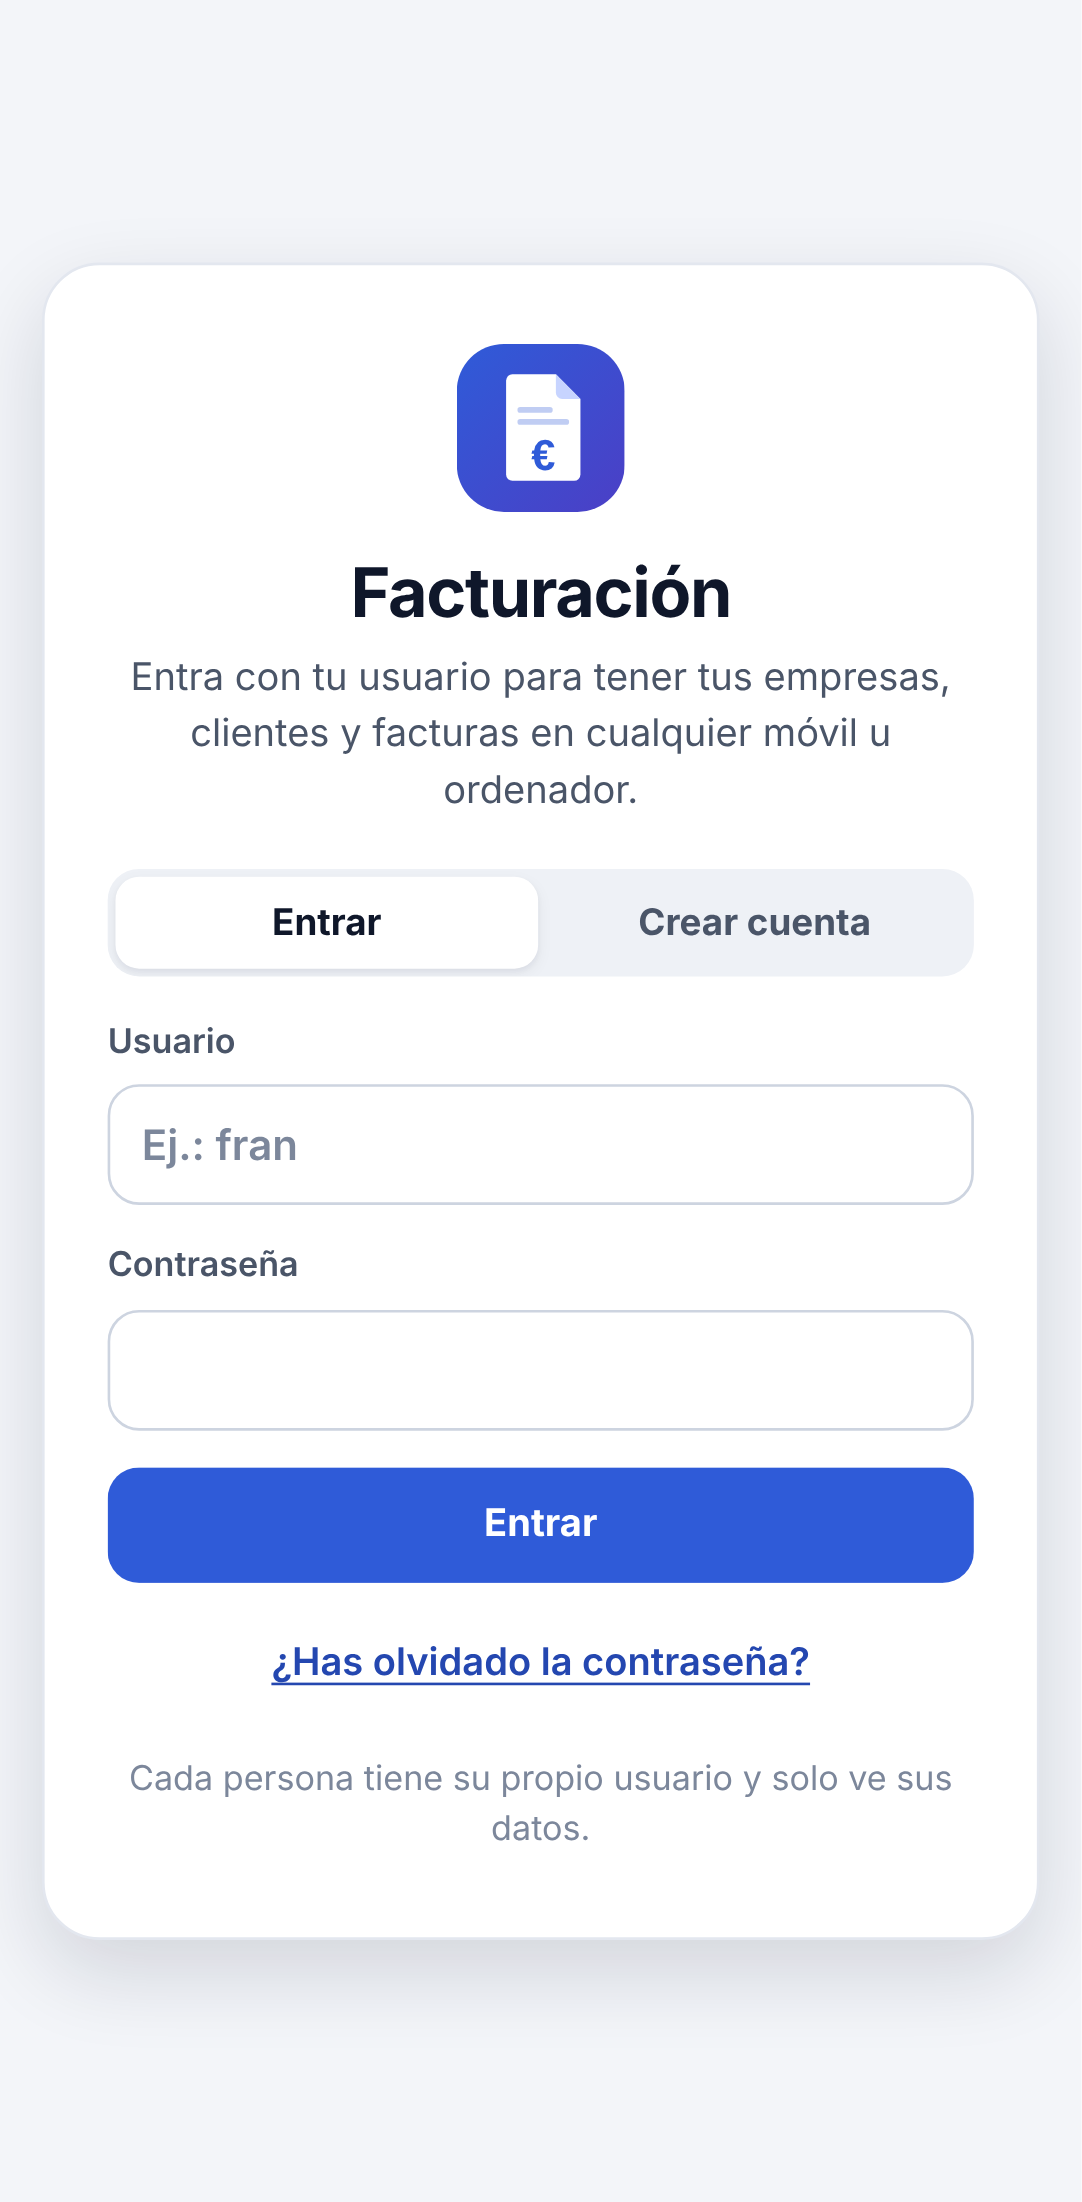
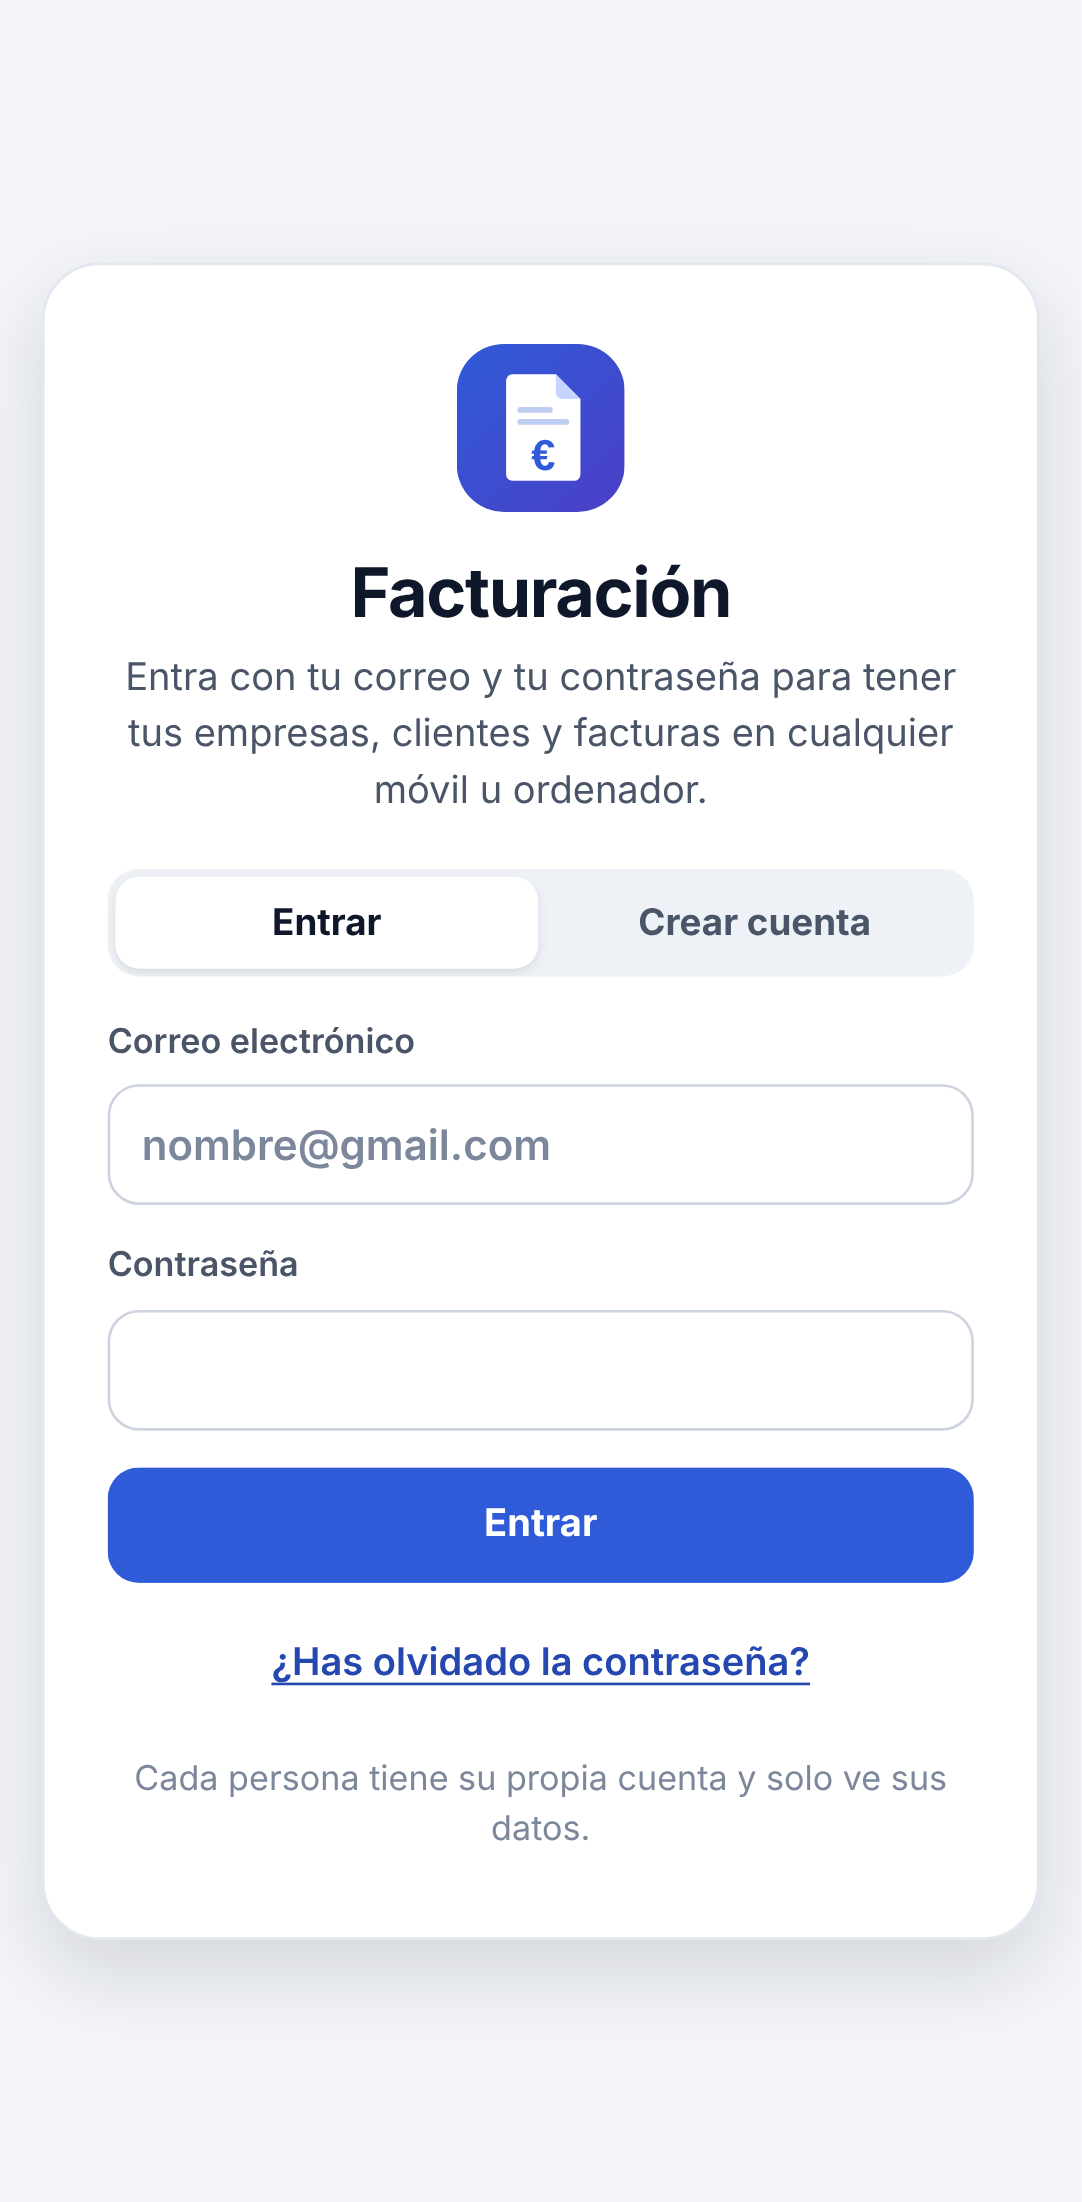
Acceso con correo y contraseña
- La pantalla de acceso pide el correo (teclado de correo en el móvil);
  se siguen admitiendo los nombres de usuario creados antes
- «¿Has olvidado la contraseña?» con el correo envía el enlace para cambiarla
- Mensajes de error y documentación con «correo»
- Prueba: correo no válido y envío del enlace de recuperación (emulador)
- Versión 3.4 (service worker v7)

Claude-Session: https://claude.ai/code/session_019FwpA5BjjwRJqGAhj26BwB

Changed region(s): [[0.122, 0.2779, 0.8845, 0.3706], [0.122, 0.8029, 0.8845, 0.8338], [0.122, 0.4632, 0.5185, 0.525]]

diff --git a/index.html b/index.html
@@ -1125,14 +1125,14 @@ body.con-acceso{overflow:hidden}
     <h1>Facturación</h1>
     <div id="acceso-cargando"><div class="ia-cargando" style="justify-content:center"><span class="ia-giro"></span><span id="acceso-cargando-texto">Abriendo…</span></div></div>
     <div id="acceso-formulario" hidden>
-      <p class="suave" style="font-size:14.5px;margin:6px 0 18px">Entra con tu usuario para tener tus empresas, clientes y facturas en cualquier móvil u ordenador.</p>
+      <p class="suave" style="font-size:14.5px;margin:6px 0 18px">Entra con tu correo y tu contraseña para tener tus empresas, clientes y facturas en cualquier móvil u ordenador.</p>
       <div class="seg" id="acceso-modo" style="width:100%;margin-bottom:16px">
         <button type="button" data-modo="entrar" class="activo" style="flex:1">Entrar</button>
         <button type="button" data-modo="crear" style="flex:1">Crear cuenta</button>
       </div>
       <form id="form-acceso" novalidate>
-        <label>Usuario <input id="ac-usuario" autocomplete="username" autocapitalize="none" autocorrect="off" spellcheck="false" placeholder="Ej.: fran"></label>
-        <p class="tenue" id="ac-ayuda-usuario" style="font-size:13px;margin:-6px 0 12px" hidden>Un nombre (sin espacios) o tu correo. Con el correo podrás recuperar la contraseña si la olvidas.</p>
+        <label>Correo electrónico <input id="ac-usuario" inputmode="email" autocomplete="username" autocapitalize="none" autocorrect="off" spellcheck="false" placeholder="nombre@gmail.com"></label>
+        <p class="tenue" id="ac-ayuda-usuario" style="font-size:13px;margin:-6px 0 12px" hidden>Usa un correo tuyo de verdad: si olvidas la contraseña, te llegará ahí un enlace para cambiarla.</p>
         <label>Contraseña <input id="ac-clave" type="password" autocomplete="current-password"></label>
         <label id="lbl-ac-clave2" hidden>Repite la contraseña <input id="ac-clave2" type="password" autocomplete="new-password"></label>
         <p class="ia-error" id="ac-error" hidden></p>
@@ -1140,7 +1140,7 @@ body.con-acceso{overflow:hidden}
         <button type="submit" class="btn primario" id="ac-boton" style="width:100%">Entrar</button>
         <button type="button" class="btn-enlace" id="ac-olvido">¿Has olvidado la contraseña?</button>
       </form>
-      <p class="tenue" style="font-size:13px;margin:16px 0 0">Cada persona tiene su propio usuario y solo ve sus datos.</p>
+      <p class="tenue" style="font-size:13px;margin:16px 0 0">Cada persona tiene su propia cuenta y solo ve sus datos.</p>
     </div>
   </div>
 </div>
@@ -1167,7 +1167,7 @@ body.con-acceso{overflow:hidden}
 (function () {
 'use strict';
 
-const VERSION_APP = '3.3';
+const VERSION_APP = '3.4';
 
 /* =========================================================
    Utilidades
@@ -3531,10 +3531,10 @@ id('acceso-modo').addEventListener('click', (ev) => {
 function mensajeErrorCuenta(codigo) {
   switch (codigo) {
     case 'auth/invalid-credential': case 'auth/invalid-login-credentials': case 'auth/wrong-password': case 'auth/user-not-found':
-      return 'Usuario o contraseña incorrectos.';
-    case 'auth/email-already-in-use': return 'Ese usuario ya existe. Elige otro, o entra con él.';
+      return 'Correo o contraseña incorrectos.';
+    case 'auth/email-already-in-use': return 'Ya hay una cuenta con ese correo. Pulsa «Entrar» (o «¿Has olvidado la contraseña?»).';
     case 'auth/weak-password': return 'La contraseña es demasiado corta (mínimo 6 caracteres).';
-    case 'auth/invalid-email': return 'Ese usuario no es válido.';
+    case 'auth/invalid-email': return 'Ese correo no es válido.';
     case 'auth/too-many-requests': return 'Demasiados intentos. Espera unos minutos y prueba otra vez.';
     case 'auth/network-request-failed': return 'No hay conexión a internet. Para entrar la primera vez hace falta internet.';
     case 'auth/requires-recent-login': return 'Por seguridad, cierra la sesión, vuelve a entrar y repite el cambio.';
@@ -3548,8 +3548,9 @@ id('form-acceso').addEventListener('submit', async (ev) => {
   const error = (t) => { id('ac-error').textContent = t; id('ac-error').hidden = false; };
   const usuario = limpiarUsuario(id('ac-usuario').value);
   const clave = id('ac-clave').value;
-  if (!usuario) return error('Escribe tu usuario.');
-  if (!usuario.includes('@') && !/^[a-z0-9._-]{3,30}$/.test(usuario)) return error('El usuario debe tener entre 3 y 30 letras o números, sin espacios.');
+  if (!usuario) return error('Escribe tu correo.');
+  // Además del correo, se admite un nombre de usuario sin espacios (cuentas creadas así antes).
+  if (usuario.includes('@') ? !/^[^@\s]+@[^@\s]+\.[^@\s]+$/.test(usuario) : !/^[a-z0-9._-]{3,30}$/.test(usuario)) return error('Escribe un correo válido (por ejemplo, nombre@gmail.com).');
   if (clave.length < 6) return error('La contraseña debe tener al menos 6 caracteres.');
   if (modoAcceso === 'crear' && clave !== id('ac-clave2').value) return error('Las dos contraseñas no coinciden.');
   id('ac-error').hidden = true;
@@ -3574,7 +3575,7 @@ id('ac-olvido').addEventListener('click', async () => {
   if (!usuario.includes('@')) {
     info(usuario
       ? 'Tu usuario no es un correo, así que no se puede enviar un enlace. Pide a quien gestiona la app que te ponga una contraseña nueva (docs/CUENTAS.md).'
-      : 'Si tu usuario es tu correo, escríbelo arriba y vuelve a pulsar aquí: te llegará un enlace para poner una contraseña nueva.');
+      : 'Escribe arriba tu correo y vuelve a pulsar aquí: te llegará un enlace para poner una contraseña nueva.');
     return;
   }
   try {

diff --git a/sw.js b/sw.js
@@ -5,7 +5,7 @@
  * - El resto de archivos se sirven de la copia guardada y se actualizan en segundo plano.
  * Al publicar cambios en los archivos, sube VERSION para limpiar la caché antigua.
  */
-const VERSION = 'facturacion-v6';
+const VERSION = 'facturacion-v7';
 const ARCHIVOS = [
   './',
   './index.html',

diff --git a/docs/CUENTAS.md b/docs/CUENTAS.md
@@ -1,6 +1,6 @@
-# Cuentas: usuario y contraseña por persona
+# Cuentas: correo y contraseña por persona
 
-Con las cuentas activadas, cada persona (Fran, tu madre…) entra con **su usuario y su contraseña** y tiene
+Con las cuentas activadas, cada persona (Fran, tu madre…) entra con **su correo y su contraseña** y tiene
 **todas sus empresas, clientes y facturas** en cualquier móvil u ordenador. Si cambia algo en el móvil, aparece solo
 en el ordenador. Sin internet se puede seguir trabajando: los cambios se suben al volver la conexión.
 
@@ -40,7 +40,7 @@ Mientras no se haga lo de abajo, la app sigue **sin cuentas**, como hasta ahora 
 
    Estos datos **no son secretos** (van dentro de cualquier app web de Firebase) y se pueden subir al repositorio
    público. Lo que protege la información son las reglas del paso 4 y las contraseñas.
-7. Al publicarlo, la app pide usuario y contraseña. Cada persona pulsa **Crear cuenta** la primera vez.
+7. Al publicarlo, la app pide correo y contraseña. Cada persona pulsa **Crear cuenta** la primera vez.
    - Si en ese móvil ya había facturas de antes, la app pregunta si se pasan a la cuenta.
 8. **Recomendado:** cuando ya estén creadas las cuentas de todos, cierra la puerta a cuentas nuevas:
    - en `config-nube.js`, `permitirRegistro: false` (quita el botón «Crear cuenta»);
@@ -48,17 +48,18 @@ Mientras no se haga lo de abajo, la app sigue **sin cuentas**, como hasta ahora 
      (registro)**. Esto es lo que lo impide de verdad. Las cuentas nuevas se crean entonces en
      **Authentication → Usuarios → Agregar usuario**, con el correo `nombre@usuarios.facturacion.app`.
 
-## El usuario
+## El correo
 
-- Puede ser **un nombre** (`fran`, `mama`…): letras y números, sin espacios. Por dentro se convierte en
-  `fran@usuarios.facturacion.app`; ese correo no existe y no se envía nada.
-- O **un correo de verdad**. Así, si se olvida la contraseña, el botón **«¿Has olvidado la contraseña?»** manda un
-  enlace para poner otra.
+- Se entra con **un correo de verdad** y una contraseña (mínimo 6 caracteres). Si se olvida la contraseña, el botón
+  **«¿Has olvidado la contraseña?»** manda a ese correo un enlace para poner otra.
+- También se admite **un nombre** sin espacios (`fran`, `mama`…). Por dentro se convierte en
+  `fran@usuarios.facturacion.app`, un correo que no existe, así que con un nombre no se puede recuperar la
+  contraseña por correo.
 
 ## Si alguien olvida la contraseña
 
-- **Si su usuario es un correo:** pantalla de acceso → **¿Has olvidado la contraseña?**
-- **Si su usuario es un nombre:** quien gestiona el proyecto de Firebase le pone una nueva:
+- **Si entra con su correo:** pantalla de acceso → escribe el correo → **¿Has olvidado la contraseña?**
+- **Si entra con un nombre:** quien gestiona el proyecto de Firebase le pone una nueva:
   1. Abre **https://shell.cloud.google.com** con la cuenta de Google dueña del proyecto.
   2. Sube [`herramientas/cambiar-clave.py`](../herramientas/cambiar-clave.py) (menú ⋮ → Subir) y ejecuta:
 

diff --git a/docs/requisitos-audios.md b/docs/requisitos-audios.md
@@ -52,7 +52,7 @@ Las partes dudosas van marcadas con `[?]`, con la interpretación elegida al lad
 | 18 | **«Invéntate los datos donde sale, así quería la plantilla»** | La plantilla clásica es la buena. Botón **«Ver un ejemplo»** en la bienvenida: carga una empresa, clientes y facturas **inventados** (DELTA ESTUDIO DE ARQUITECTURA S.L., A 14/26, A 15/26, CP 3/26) y avisa de que son de ejemplo. «Borrar el ejemplo» solo quita esos datos. Las capturas y el PDF de `docs/` están hechos con esos datos. La vista previa de la plantilla también usa datos inventados. |
 | 19 | **Que también la use su madre** | La app no es solo de Fran: cualquiera la abre con el mismo enlace, la instala y da de alta su empresa. Cada móvil guarda sus datos aparte. Si se quiere dejar preparada, se le hace su propio JSON de configuración privado. |
 | 20 | **«Una IA a la que le pases un PDF y te ponga los datos del cliente»** | Botón **«Rellenar con IA desde un PDF o una foto»** en el editor de facturas y en la ficha de cliente. Usa Claude (Opus 5.5, SDK oficial) con salida JSON con esquema y con nuestras empresas excluidas. Los datos se **revisan** antes de usarlos. Si el CIF ya existe, se elige ese cliente. La clave se pone en Ajustes (o la primera vez) y no va en las copias. |
-| 21 | **«Que la app tenga un usuario y contraseña por persona y que, una vez dentro, tengan todos sus proyectos»** | **Cuentas** con Firebase (acceso con contraseña + base de datos Firestore). Al abrir, la app pide **usuario y contraseña** (o «Crear cuenta»). Cada persona ve **solo sus** empresas, clientes y facturas, en **cualquier móvil u ordenador** y en tiempo real. Sin internet sigue funcionando y sube los cambios después. Si el móvil ya tenía facturas, pregunta si se pasan a la cuenta. **Ajustes → Mi cuenta**: cambiar la contraseña y cerrar la sesión. Se activa con un proyecto de Firebase: pasos en [`CUENTAS.md`](CUENTAS.md). |
+| 21 | **«Que la app tenga un usuario y contraseña por persona y que, una vez dentro, tengan todos sus proyectos»** | **Cuentas** con Firebase (acceso con contraseña + base de datos Firestore). Al abrir, la app pide **correo y contraseña** (o «Crear cuenta»); si se olvida la contraseña, llega un enlace al correo. Cada persona ve **solo sus** empresas, clientes y facturas, en **cualquier móvil u ordenador** y en tiempo real. Sin internet sigue funcionando y sube los cambios después. Si el móvil ya tenía facturas, pregunta si se pasan a la cuenta. **Ajustes → Mi cuenta**: cambiar la contraseña y cerrar la sesión. Se activa con un proyecto de Firebase: pasos en [`CUENTAS.md`](CUENTAS.md). |
 | 17 | **Logos** de las dos empresas | Se suben en la ficha de cada empresa. El logo Φ venía dentro de la factura de ejemplo. Los datos reales **no** se guardan en el repositorio (es público): van en un archivo de configuración privado. |
 
 ## Interpretaciones tomadas

diff --git a/docs/COMO-SE-HIZO.md b/docs/COMO-SE-HIZO.md
@@ -277,9 +277,13 @@ Petición: «que la app tenga un usuario y contraseña por persona y que, una ve
 - **Sin romper lo anterior:** con `window.CONFIG_NUBE = null` (en `config-nube.js`) la app funciona igual que antes.
   Activarlo es solo pegar la configuración del proyecto de Firebase (`docs/CUENTAS.md`). Esa configuración **no es
   secreta**; la protección está en `firestore.rules` (cada `uid` solo lee y escribe `usuarios/{uid}/…`).
-- **Usuario sin correo:** `fran` → `fran@usuarios.facturacion.app` por dentro. También se puede usar un correo real,
-  para poder recuperar la contraseña. Para los nombres, `herramientas/cambiar-clave.py` (en Cloud Shell) pone una
-  nueva. Los errores de Firebase se traducen a frases claras.
+- **Se entra con correo y contraseña** (lo pidió así el usuario). El correo permite recuperar la contraseña con
+  `sendPasswordResetEmail` (en español: `auth.languageCode = 'es'`). Se sigue admitiendo un nombre sin correo
+  (`fran` → `fran@usuarios.facturacion.app`); para esos, `herramientas/cambiar-clave.py` (en Cloud Shell) pone una
+  contraseña nueva. Los errores de Firebase se traducen a frases claras.
+- **Lección:** las cuentas quedan **apagadas** hasta tener el proyecto de Firebase (solo lo puede crear el usuario,
+  con su cuenta de Google). Hay que decirlo muy claro y pedir la configuración en el mismo mensaje: el usuario
+  creyó que no estaban hechas porque la app seguía sin pedir contraseña.
 - **Cómo se guardan los datos:**
   - un documento por empresa, cliente y factura, con el mismo formato que la copia de seguridad, y los ajustes en
     `usuarios/{uid}`;

diff --git a/README.md b/README.md
@@ -7,7 +7,7 @@ está **vencido**.
 - **Se instala en el móvil** (Android o iPhone) desde un enlace, con su icono.
 - **Funciona sin internet** una vez instalada.
 - **Envía la factura en PDF** por WhatsApp o correo, y **recuerda el cobro** con un toque.
-- **Cuentas con usuario y contraseña**: cada persona (Fran, tu madre…) entra con lo suyo y tiene **todas sus
+- **Cuentas con correo y contraseña**: cada persona (Fran, tu madre…) entra con lo suyo y tiene **todas sus
   empresas, clientes y facturas** en cualquier móvil u ordenador, al momento. Nadie ve los datos de otro. Se
   activan con un proyecto gratuito de Firebase: [`docs/CUENTAS.md`](docs/CUENTAS.md). Mientras no se activen, los
   datos se quedan en cada dispositivo y no se envían a ningún servidor.
@@ -36,7 +36,7 @@ está **vencido**.
 
 ## Cómo se usa
 
-- **Entrar:** con las cuentas activadas, la primera vez se pulsa **Crear cuenta** (usuario y contraseña). En otro
+- **Entrar:** con las cuentas activadas, la primera vez se pulsa **Crear cuenta** (correo y contraseña). En otro
   móvil u ordenador se pulsa **Entrar** con los mismos datos y aparece todo. En **Ajustes → Mi cuenta** se cambia la
   contraseña o se cierra la sesión.
 - **Ajustes → Mis empresas → Añadir empresa.** Se rellenan una vez:
